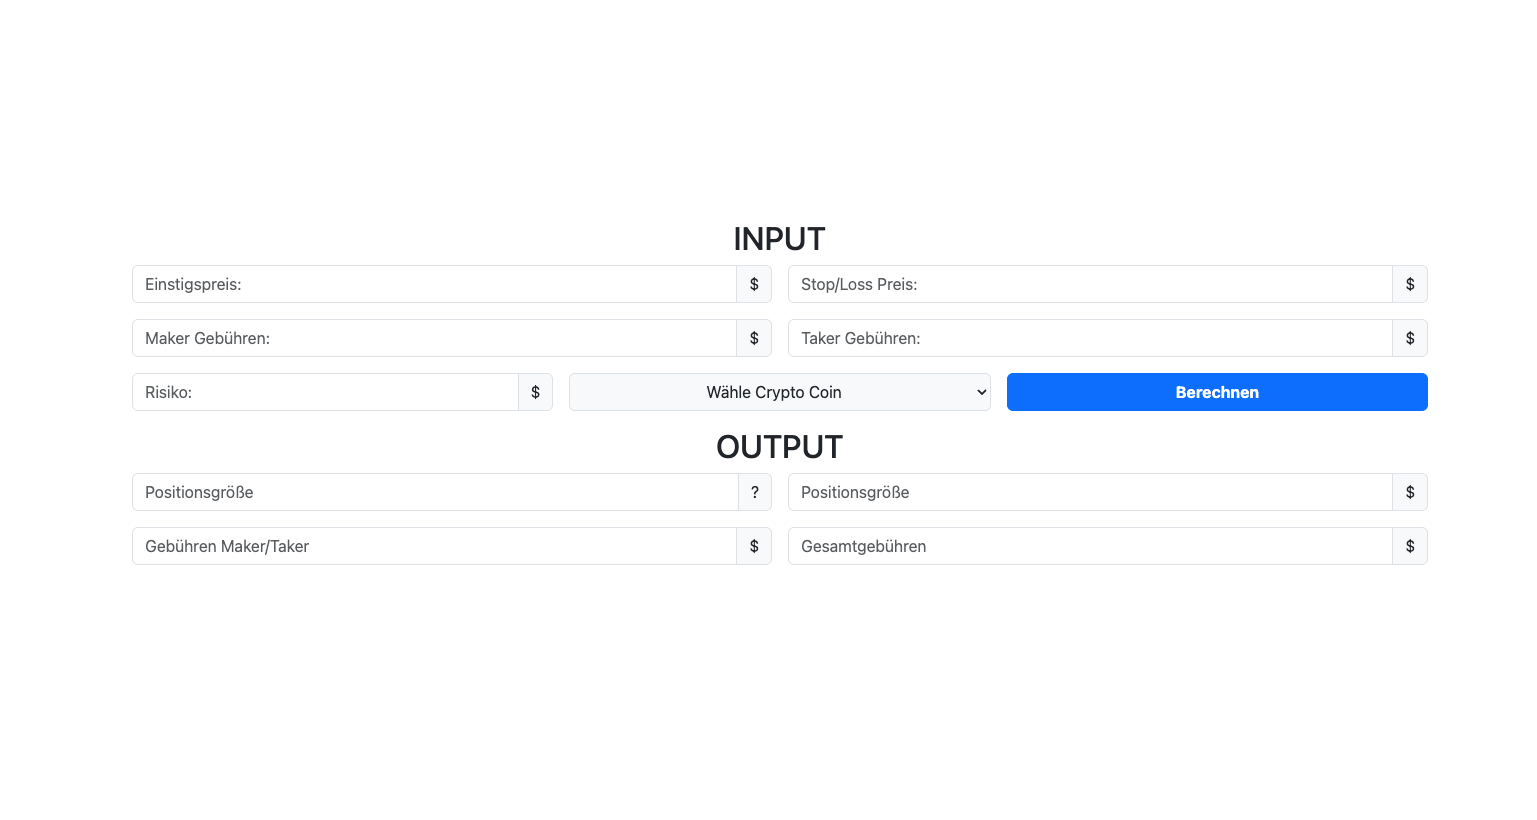
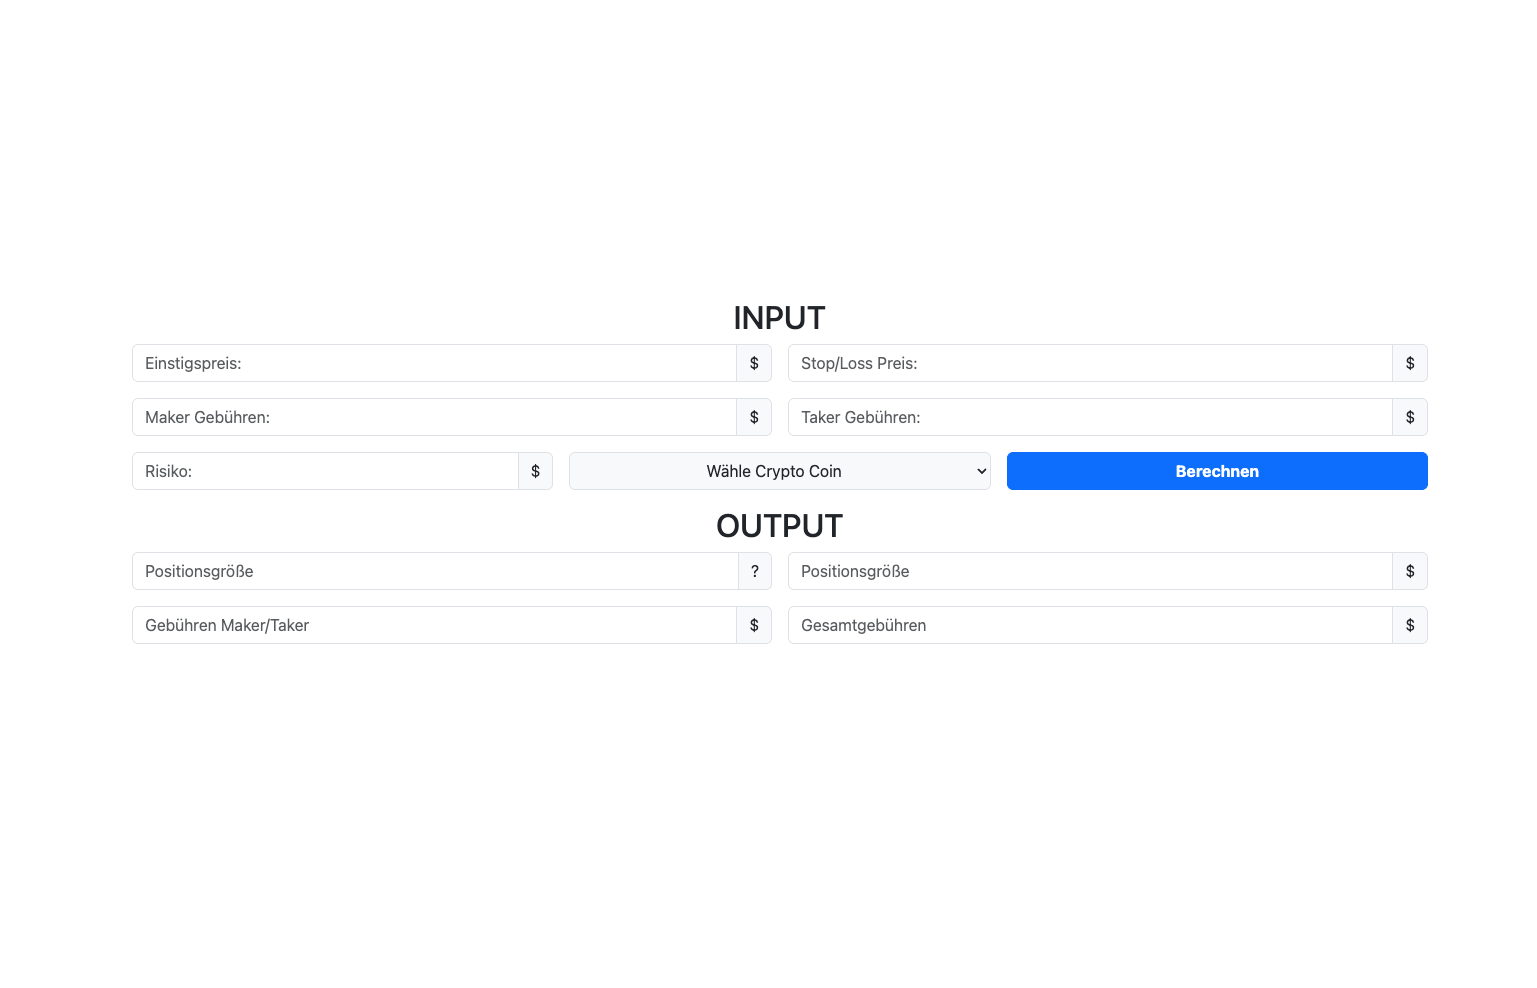
Fixed image size

diff --git a/index.html b/index.html
@@ -510,11 +510,10 @@
           </div>
           <div class="col">
             <div class="card h-100" id="card-color">
-              <a href="/Projects/TeslaWebsite/TeslaHomepage/homepage.html">
+              <a href="/Projects/tradingCalc/index.html">
                 <img
                   src="/images/projectIMG/crypto-setup.png"
                   class="card-img-top"
-                  style="height: 350px;"
                   alt="..."
                 />
               </a>
